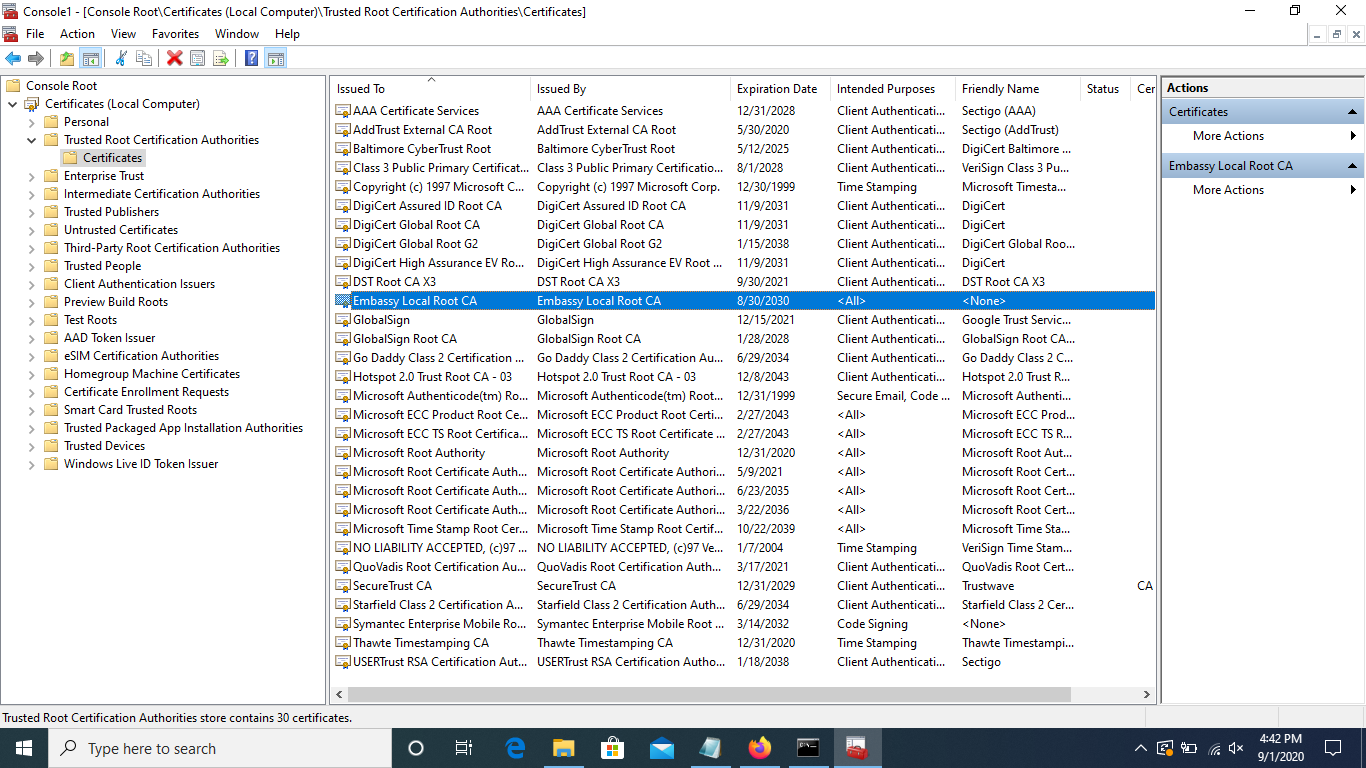
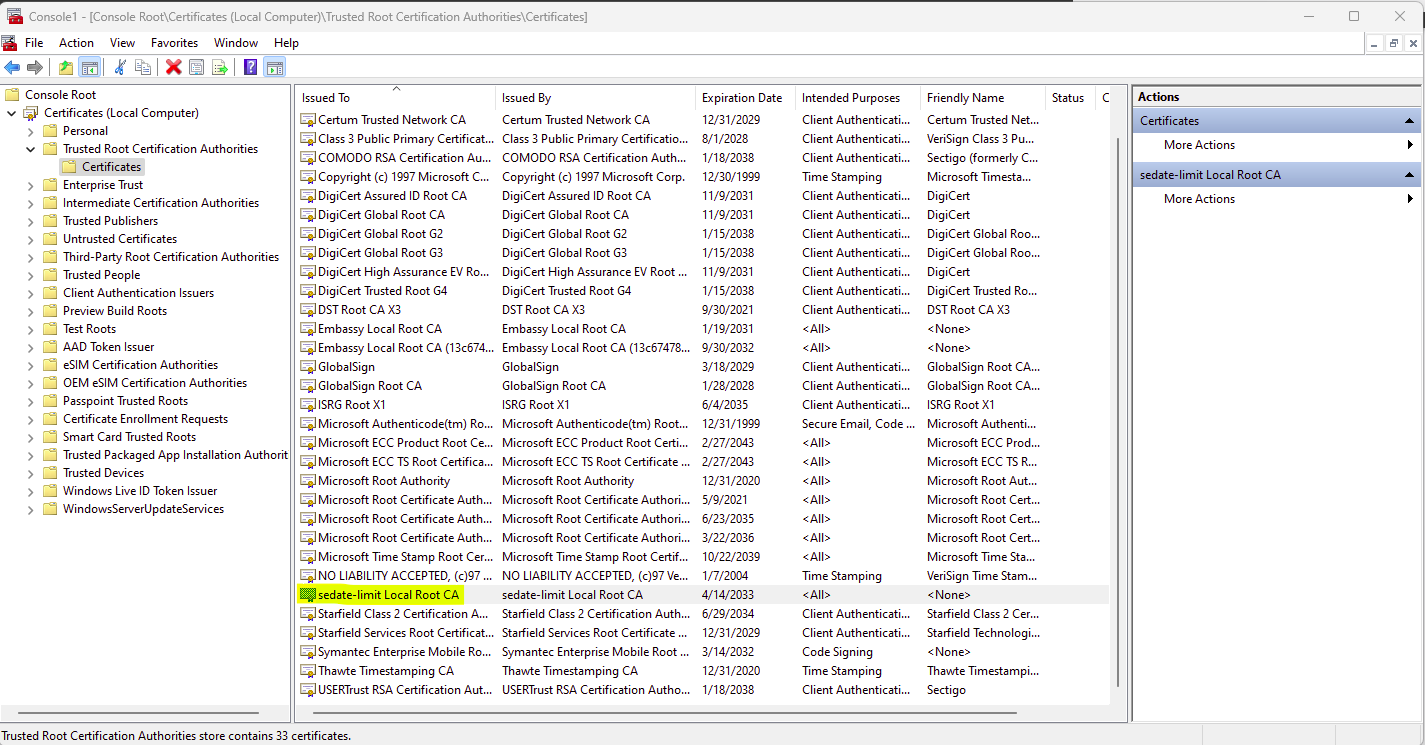
Update LAN windows guide to remove Embassy copy

diff --git a/site/source/user-manual/connecting/connecting-lan/lan-os/lan-windows.rst b/site/source/user-manual/connecting/connecting-lan/lan-os/lan-windows.rst
@@ -1,12 +1,12 @@
 .. _lan-windows:
 
-==============================
-Trusting Embassy CA On Windows
-==============================
+====================================
+Trusting Start9 Server CA On Windows
+====================================
 
-Unfortunately, Windows does not have mDNS alias support built-in, which is necessary in order to visit .local addresses for any service you install on your Embassy, so we recommend using the Bonjour service. Check out this :ref:`FAQ answer<why-bonjour>` for details.
+Unfortunately, Windows does not have mDNS alias support built-in, which is necessary in order to visit .local addresses for any service you install on your Start9 server, so we recommend using the Bonjour service. Check out this :ref:`FAQ answer<why-bonjour>` for details.
 
-.. note:: Recently many users who have run through the following instructions have successfully connected to their Embassy via LAN only to have it stop working a few days or weeks later. We believe this to be due to a recent change in Windows. When this happens the fix is to simply reinstall Bonjour and Bonjour Print Services. A solution is being worked on and Bonjour will not be necessary to connect to your Embassy for much longer.
+.. note:: Recently many users who have run through the following instructions have successfully connected to their Start9 server via LAN only to have it stop working a few days or weeks later. We believe this to be due to a recent change in Windows. When this happens the fix is to simply reinstall Bonjour and Bonjour Print Services. A solution is being worked on and Bonjour will not be necessary to connect to your Start9 server for much longer.
 
 #. Install `Bonjour Print Services <https://support.apple.com/kb/DL999>`_ on your Windows machine.
 
@@ -80,12 +80,12 @@ Unfortunately, Windows does not have mDNS alias support built-in, which is neces
 
 #. Select “OK” when the import is successful.
 
-#. Verify the Embassy Local Root CA certificate is in the “Certificates” folder.
+#. Verify the your Start9 server's Local Root CA certificate is in the “Certificates” folder:
 
    .. figure:: /_static/images/ssl/windows/8_windows_successful_cert_install.png
     :width: 90%
     :alt: Successful cert install
 
-    Embassy Local Root CA imported into Certificate folder
+    Your server's unique `adjective-noun Local Root CA` is now imported into Certificate folder
 
 #. You can save the settings to the console if desired, or not by pressing `Yes` or `No`.  The CA certificate will remain imported to the CA certificate store either way.
